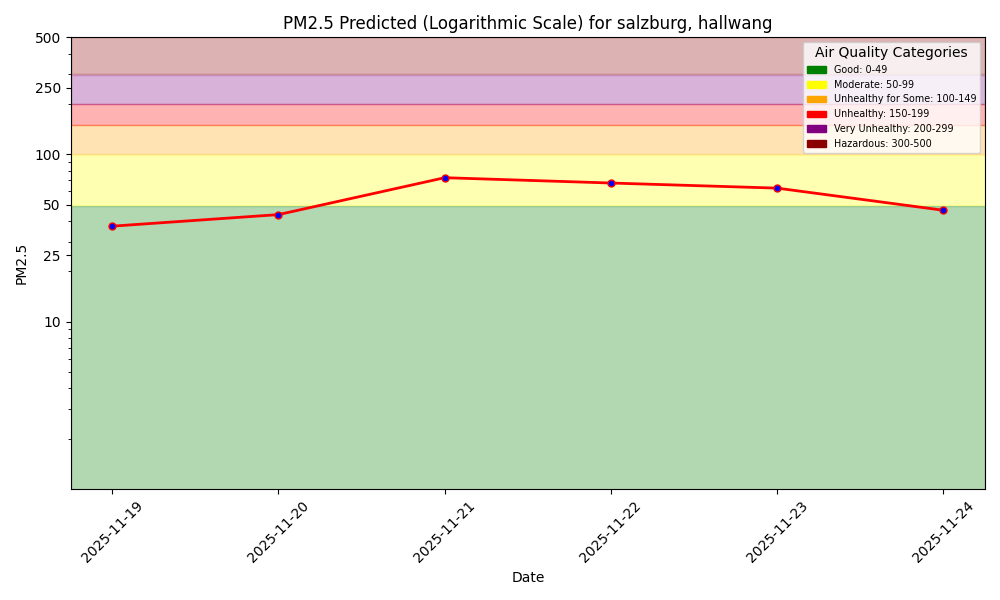
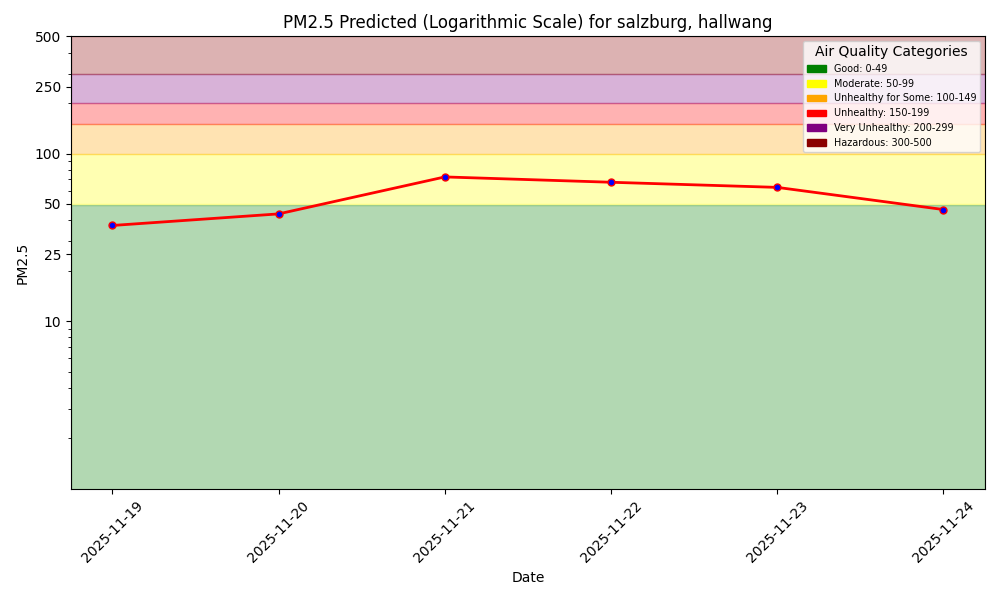
Fix hindcast plot

diff --git a/mlfs/airquality/util.py b/mlfs/airquality/util.py
@@ -16,6 +16,7 @@ from retry_requests import retry
 import hopsworks
 import hsfs
 from pathlib import Path
+import matplotlib.dates as mdates
 
 def get_historical_weather(city, start_date,  end_date, latitude, longitude):
     # latitude, longitude = get_city_coordinates(city)
@@ -204,6 +205,10 @@ def plot_air_quality_forecast(city: str, street: str, df: pd.DataFrame, file_pat
     day = pd.to_datetime(df['date']).dt.date
     # Plot each column separately in matplotlib
     ax.plot(day, df['predicted_pm25'], label='Predicted PM2.5', color='red', linewidth=2, marker='o', markersize=5, markerfacecolor='blue')
+
+    num_ticks_interval = max(1, int(np.ceil(len(day) / 10)))
+    ax.xaxis.set_major_locator(mdates.DayLocator(interval=num_ticks_interval))
+    ax.xaxis.set_major_formatter(mdates.DateFormatter('%Y-%m-%d'))
 
     # Set the y-axis to a logarithmic scale
     ax.set_yscale('log')

diff --git a/scripts/4_inference_pipeline.py b/scripts/4_inference_pipeline.py
@@ -102,7 +102,6 @@ def run_inference_for_sensor(city: str, street: str) -> None:
     batch_df["pm25_lag_3"] = float(0.0)
 
     for idx, row in batch_df.iterrows():
-        print(f"Predicting for {row['date'].date()} with lags: {lag_1}, {lag_2}, {lag_3}")
         batch_df.at[idx, "pm25_lag_1"] = lag_1
         batch_df.at[idx, "pm25_lag_2"] = lag_2
         batch_df.at[idx, "pm25_lag_3"] = lag_3
